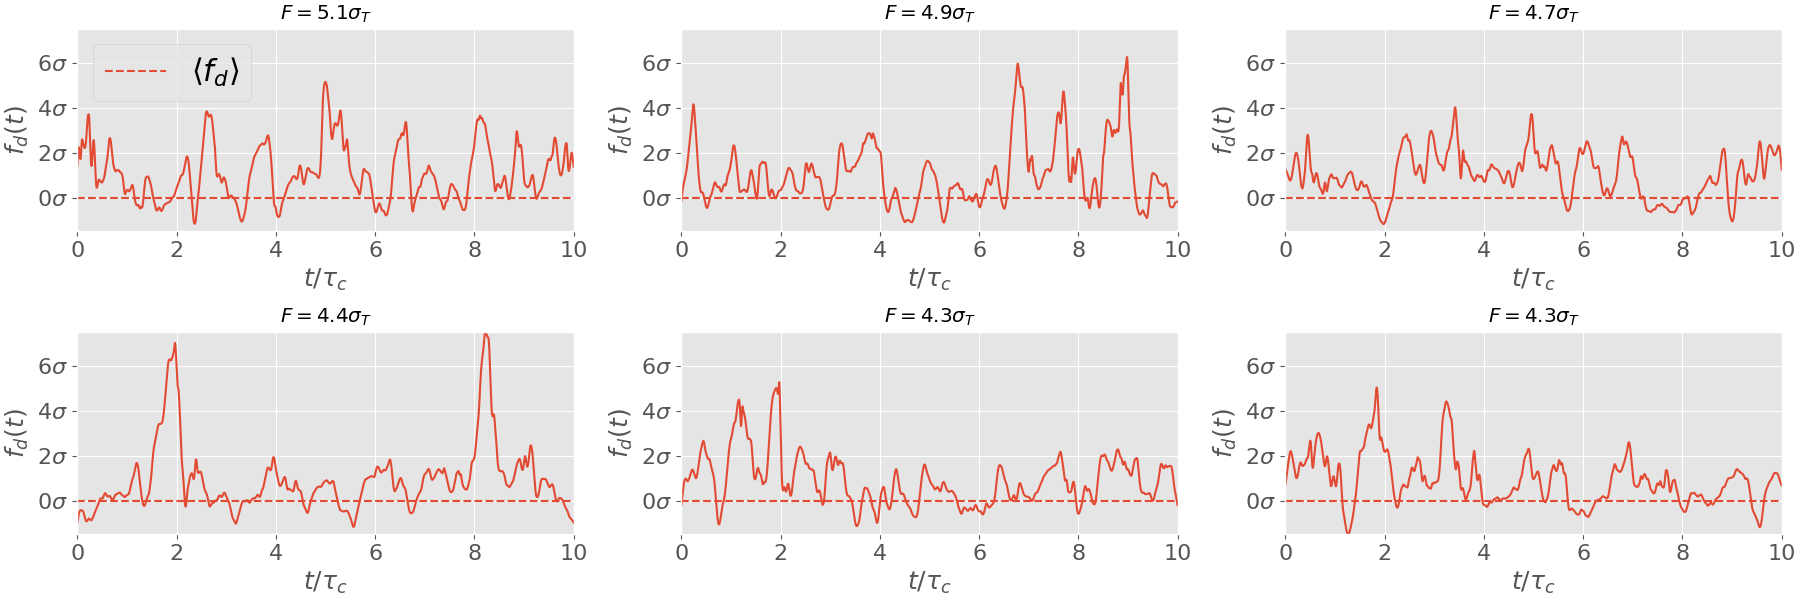
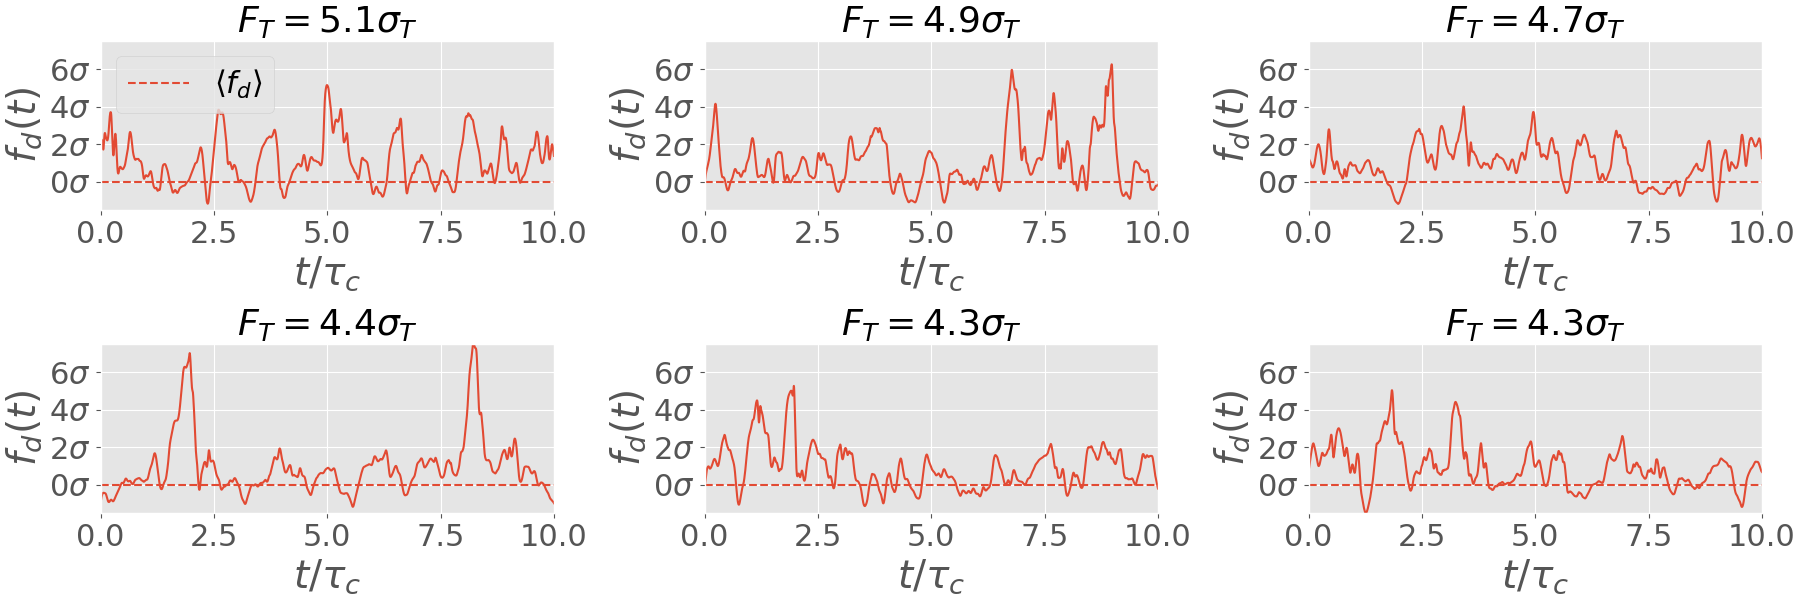
Add figur timeseries_extrms_AVG

diff --git a/draft_p2.tex b/draft_p2.tex
@@ -507,8 +507,8 @@ This is consistent with an increase of $\overline{\gamma}$ acting as a precursor
 
 \begin{figure}
 	\centering
-	%\includegraphics[width=\linewidth]{timeseries_extrms_AVG/timeseries_extrms_AVG}
-	\caption{Instantaneous drag signals $f_d(t)$ corresponding to the highest fluctuations of the time-averaged drag $F_T$ with averaging period $T=10~\tau_c$ and $\tau_c$ being the correlation time of the drag. $\sigma_T$ denotes the standard deviation of $F_T$. \EL{FIGURE IS MISSING} \TL{Addressed in issue \#9}}
+	\includegraphics[width=\linewidth]{timeseries_extrms_AVG/timeseries_extrms_AVG}
+	\caption{\TL{Instantaneous drag signals $f_d(t)$ corresponding to the highest fluctuations of the time-averaged drag $F_T$ observed in a control timeseries $\{F_T(t)\}_{0 \leq t \leq T_{tot}-T}$ with $T_{Tot} = 10^6\tau_c$ and $T = 10 \tau_c$. Here $\tilde{f}_d$ denotes the zero-mean, unit variance instantaneous drag.}}
 	\label{fig:extreme_avg}
 \end{figure}
 
@@ -537,7 +537,7 @@ It is thus legitimate to ask whether a large value of the averaged drag results 
 %
 The averaged drag signal $\{F_T(t)\}_{0 \leq t \leq T_{tot}-T}$ is obtained straightforwardly by filtering in time the instantaneous drag signal $f_d(t)$. 
 In the same way as in section \ref{sec:extreme_extraction}, one can identify extreme fluctuations of $F_T$ exceeding some fixed threshold $a$ and sample a set of extreme events.
-By taking $a=5.2~\sigma _T$  with $\sigma_T$ being the standard deviation of the fluctuations of $F_T$, $84$ independent extreme events have been selected.
+By taking $a=5.2~\sigma_T$  with $\sigma_T$ being the standard deviation of the fluctuations of $F_T$, $84$ independent extreme events have been selected.
 
 
 % neither case (1) nor case (2)

diff --git a/figures/timeseries_extrms_AVG/timeseries_extrms_AVG.py b/figures/timeseries_extrms_AVG/timeseries_extrms_AVG.py
@@ -14,7 +14,7 @@ sortedI = np.loadtxt('list.txt', dtype=int)
 sig=0.0412
 m=0.0252
 # Gets the value of mu and sigma for time-averaged drag
-musigma = np.fromfile("../PDF_AVG/musigma_AVG_10.dat", float, -1, "");
+musigma = np.fromfile("musigma_AVG_10.dat", float, -1, "");
 
 T = 10 # Physical duration of instant. trajectories
 
@@ -38,7 +38,7 @@ for i in range(0,Nsubplots):
     col = i % 3
     drag_signal, = axes[row,col].plot(np.linspace(0,T,N),f)
     axes[row,col].set_xlim((0, T))
-    axes[row,col].set_title(r"$F = {:2.1f}\sigma _T$".format(F_avg))
+    axes[row,col].set_title(r"$F_T = {:2.1f}\sigma _T$".format(F_avg), fontsize=26)
     # Compute min and max for instant drag signal to
     # impose common ylim to all subplots (see below)
     maxArray[i]=np.amax(f)
@@ -55,12 +55,12 @@ for i in range(0,6):
     row = i // 3
     col = i % 3
     axes[row,col].set_ylim((globalDragMinimum,globalDragMaximum))
-    axes[row,col].set_xlabel(r'$t/ \tau_c$',fontsize=18)
-    axes[row,col].set_ylabel(r'$f_d(t)$',fontsize=18)
+    axes[row,col].set_xlabel(r'$t/ \tau_c$',fontsize=28)
+    axes[row,col].set_ylabel(r'$f_d(t)$',fontsize=28)
     axes[row,col].set_yticks([0,2,4,6])
     axes[row,col].set_yticklabels(['${:2.0f}\\sigma$'.format(x) \
                                    for x in axes[row,col].get_xticks()])
-    axes[row,col].tick_params(axis='both', which='major', labelsize=16)
+    axes[row,col].tick_params(axis='both', which='major', labelsize=22)
 
 fname = 'timeseries_extrms_AVG.png'
 plt.savefig(fname)
